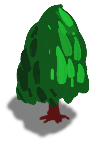
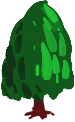
showing collision boxes

diff --git a/src/Drawable.js b/src/Drawable.js
@@ -1,6 +1,7 @@
 class Drawable extends Rectangle {
   children = [];
   lastPos = {};
+  colors = {s: 'white', g: 'dodgerblue', d: 'black'};
 
   constructor(params) {
     super(params);
@@ -32,6 +33,12 @@ class Drawable extends Rectangle {
         const tmp = assets.make(this);
         this.html = tmp.html;
         this.variant = tmp.variant;
+        this.boxes = {};
+        this.boxes[settings.SURFACE] = tmp[settings.SURFACE];
+        this.boxes[settings.GHOSTS] = tmp[settings.GHOSTS];
+        this.boxes[settings.SHADOW] = tmp[settings.SHADOW];
+        console.log(tmp);
+
       }
       this.addToParent();
       // clear this from memory as we dont need it any more
@@ -101,6 +108,7 @@ class Drawable extends Rectangle {
     if (this.type == 'buttons') return;
     this.div.style.zIndex = parseInt(itemPos.y);
     this.setPostcode();
+    this.showBoxes();
   }
   /**
  * Record the current suburb (postcode) for this item
@@ -146,4 +154,31 @@ class Drawable extends Rectangle {
 
   }
 
+  showBoxes() {
+    let layerOpacity = 0.8;
+    const thisDiv = document.querySelector(`#${this.id}`);
+
+    thisDiv.classList.add('collision');
+    // loop through the boxes and show them
+    for (const layerId in this.boxes) {
+      const rectangles = this.boxes[layerId];
+      layerOpacity -= 0.2;
+      if (!rectangles) continue;
+
+      for (const rectangle of rectangles) {
+        const thisBox = document.createElement('div');
+        thisBox.classList.add('collisionBox');
+        thisDiv.insertAdjacentElement('beforeend', thisBox);
+        thisBox.style.transform = `translate3d(${rectangle.x}px, ${rectangle.y}px, 0)`;
+        thisBox.style.left = `${rectangle.x}px`;
+        thisBox.style.top = `${rectangle.y}px`;
+        thisBox.style.width = `${rectangle.w}px`;
+        thisBox.style.height = `${rectangle.h}px`;
+        thisBox.style.display = 'block';
+        thisBox.style.backgroundColor = this.colors[layerId];
+        thisBox.style.opacity = layerOpacity;
+      }
+
+    }
+  }
 }

diff --git a/src/Overlays.js b/src/Overlays.js
@@ -70,22 +70,21 @@ class Overlays {
     console.log('Player Y:', this.normalizedY, 'Gradient:', gradient);
   }
 
-/**
- * Clacl where the player is relative to the screen height so we can modify the overlay
- * @param {number} playerY 
- * @param {number} screenHeight 
- */
+  /**
+   * Clacl where the player is relative to the screen height so we can modify the overlay
+   * @param {number} playerY 
+   */
   updateForPlayerPosition(playerY) {
     const screenHeight = window.innerHeight;
     const worldHeight = settings[mode].worldSize.h;
-let newNormalizedY = 0.5; // default middle of the screen most of the time
+    let newNormalizedY = 0.5; // default middle of the screen most of the time
     if (playerY < screenHeight / 2) {
       // Near top of screen
       newNormalizedY = playerY / screenHeight;
     } else if (playerY > worldHeight - (screenHeight / 2)) {
       // Near bottom of play area
       newNormalizedY = (playerY - (worldHeight - screenHeight)) / screenHeight;
-    } 
+    }
 
     if (this.normalizedY === newNormalizedY) return;
 

diff --git a/src/Mover.js b/src/Mover.js
@@ -221,7 +221,7 @@ class Mover extends Item {
     let poss = this.collisionBox.collides(collidable);
     // if x = -1 we are on the left|top of centre, +1 is right|bottom
     if (poss.x != 0 || poss.y != 0) {
-      console.log('collision', item.id, poss);
+      //console.log('collision', item.id, poss);
       // we hit something so return to previous pos and modify velocity before applying it again
       this.restorePos();
       if (item.onCollide === 'stop') {

diff --git a/settings.js b/settings.js
@@ -24,6 +24,7 @@ const settings = {
   SURFACE: 's',
   GHOSTS: 'g',
   INVENTORY: 'i',
+  SHADOW: 'd',
   
   isDev: true,
   showCollision: false,

diff --git a/layout.css b/layout.css
@@ -23,6 +23,7 @@ body {
 .item {
   position: absolute;
   opacity: 100%;
+  border: 1px solid #fd353562
 }
 
 .collisionBox {
